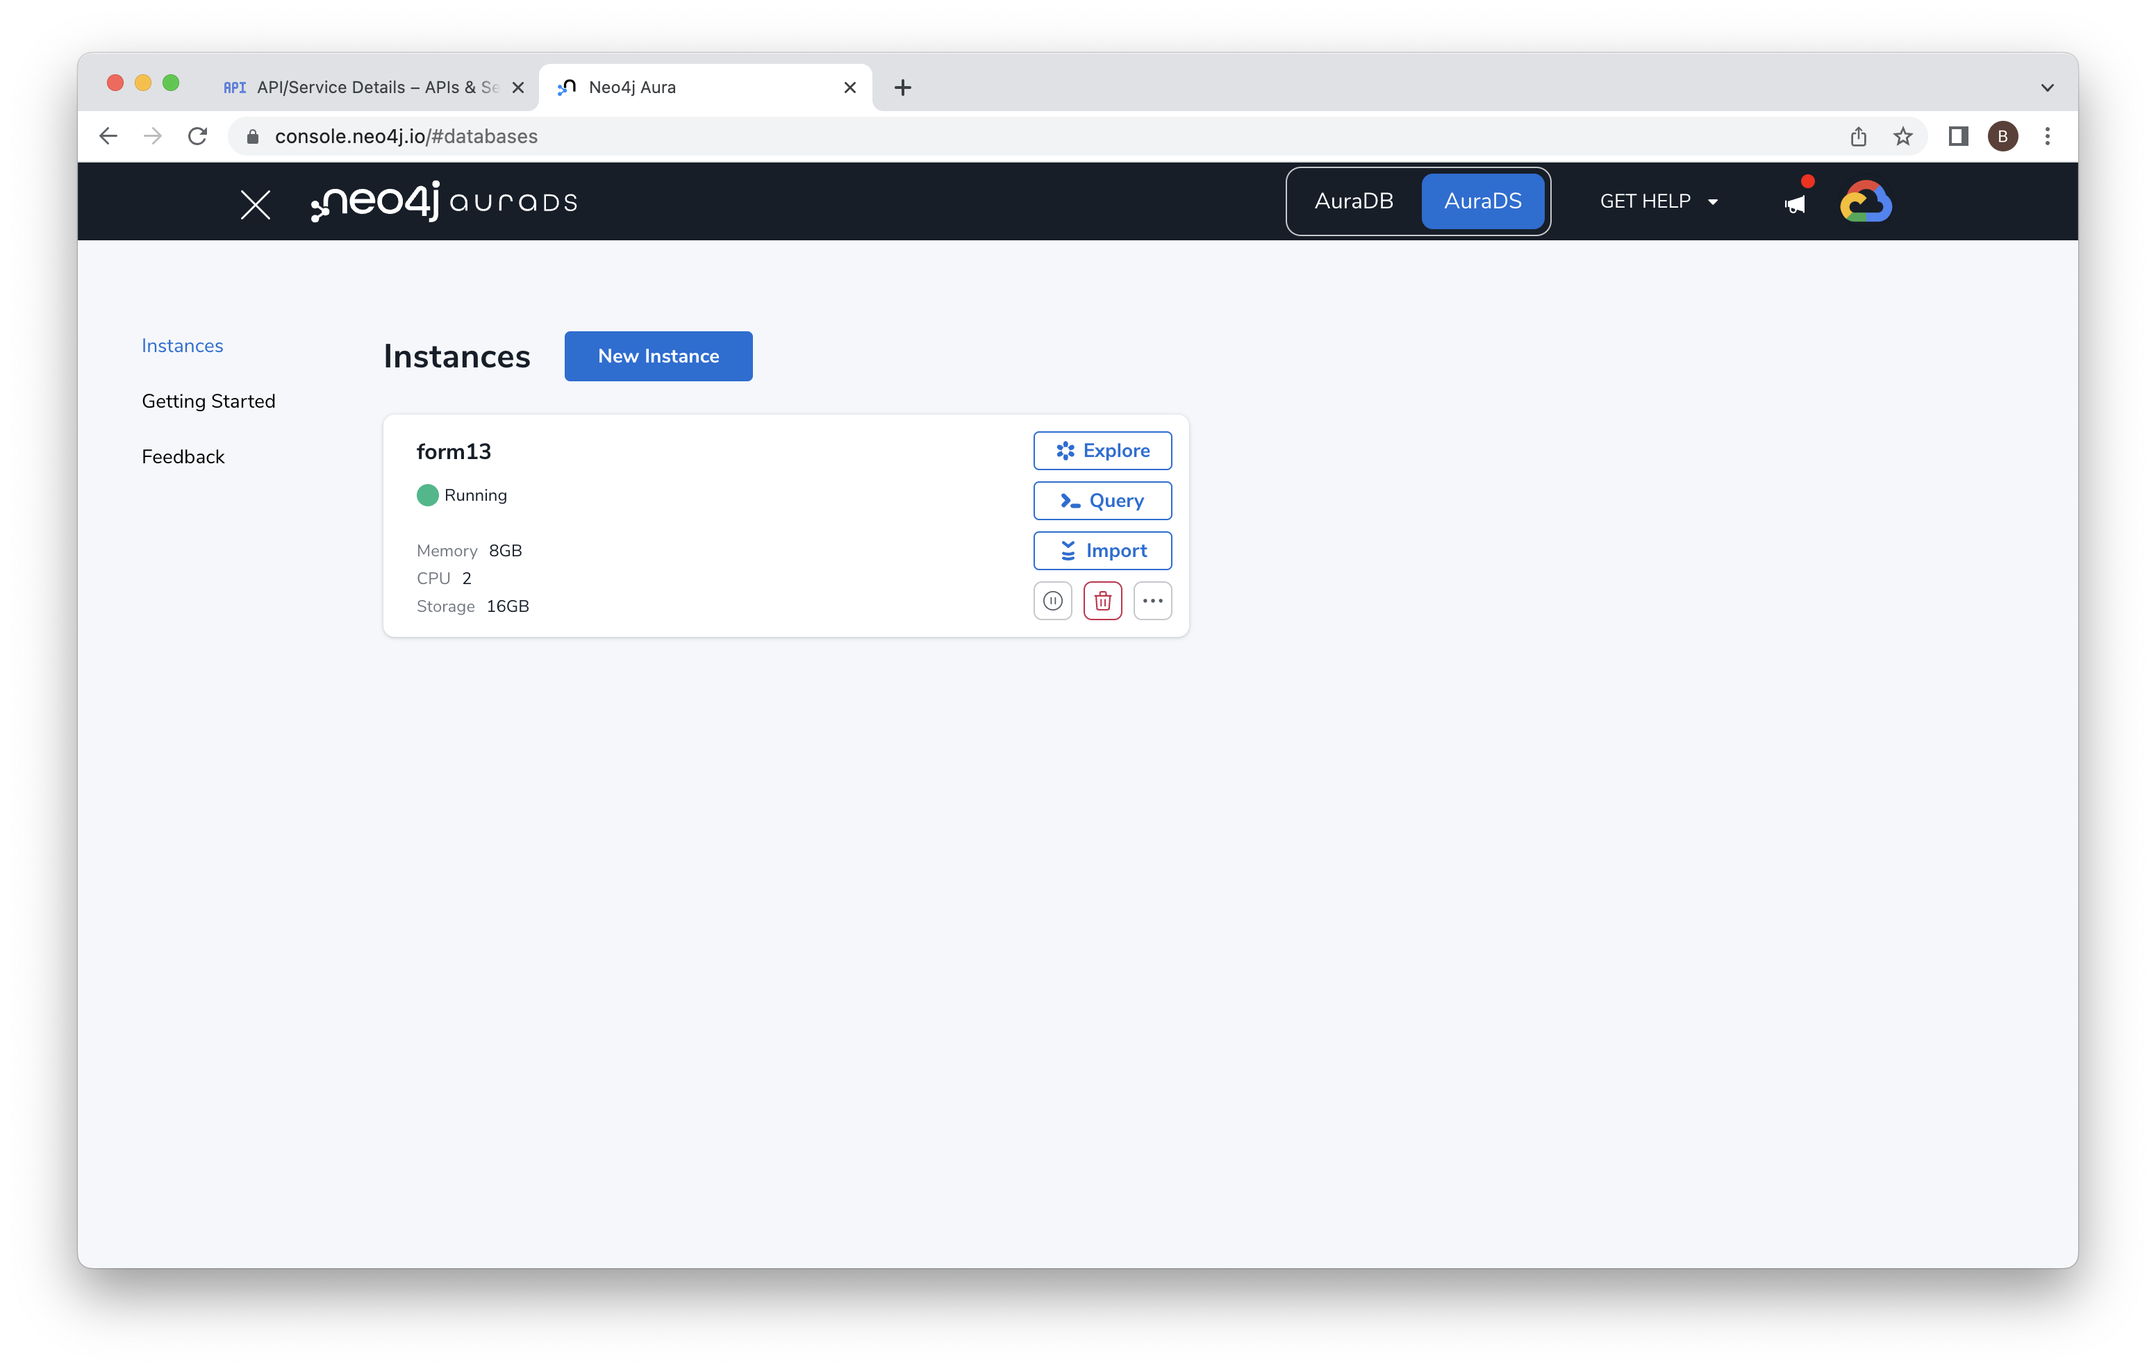
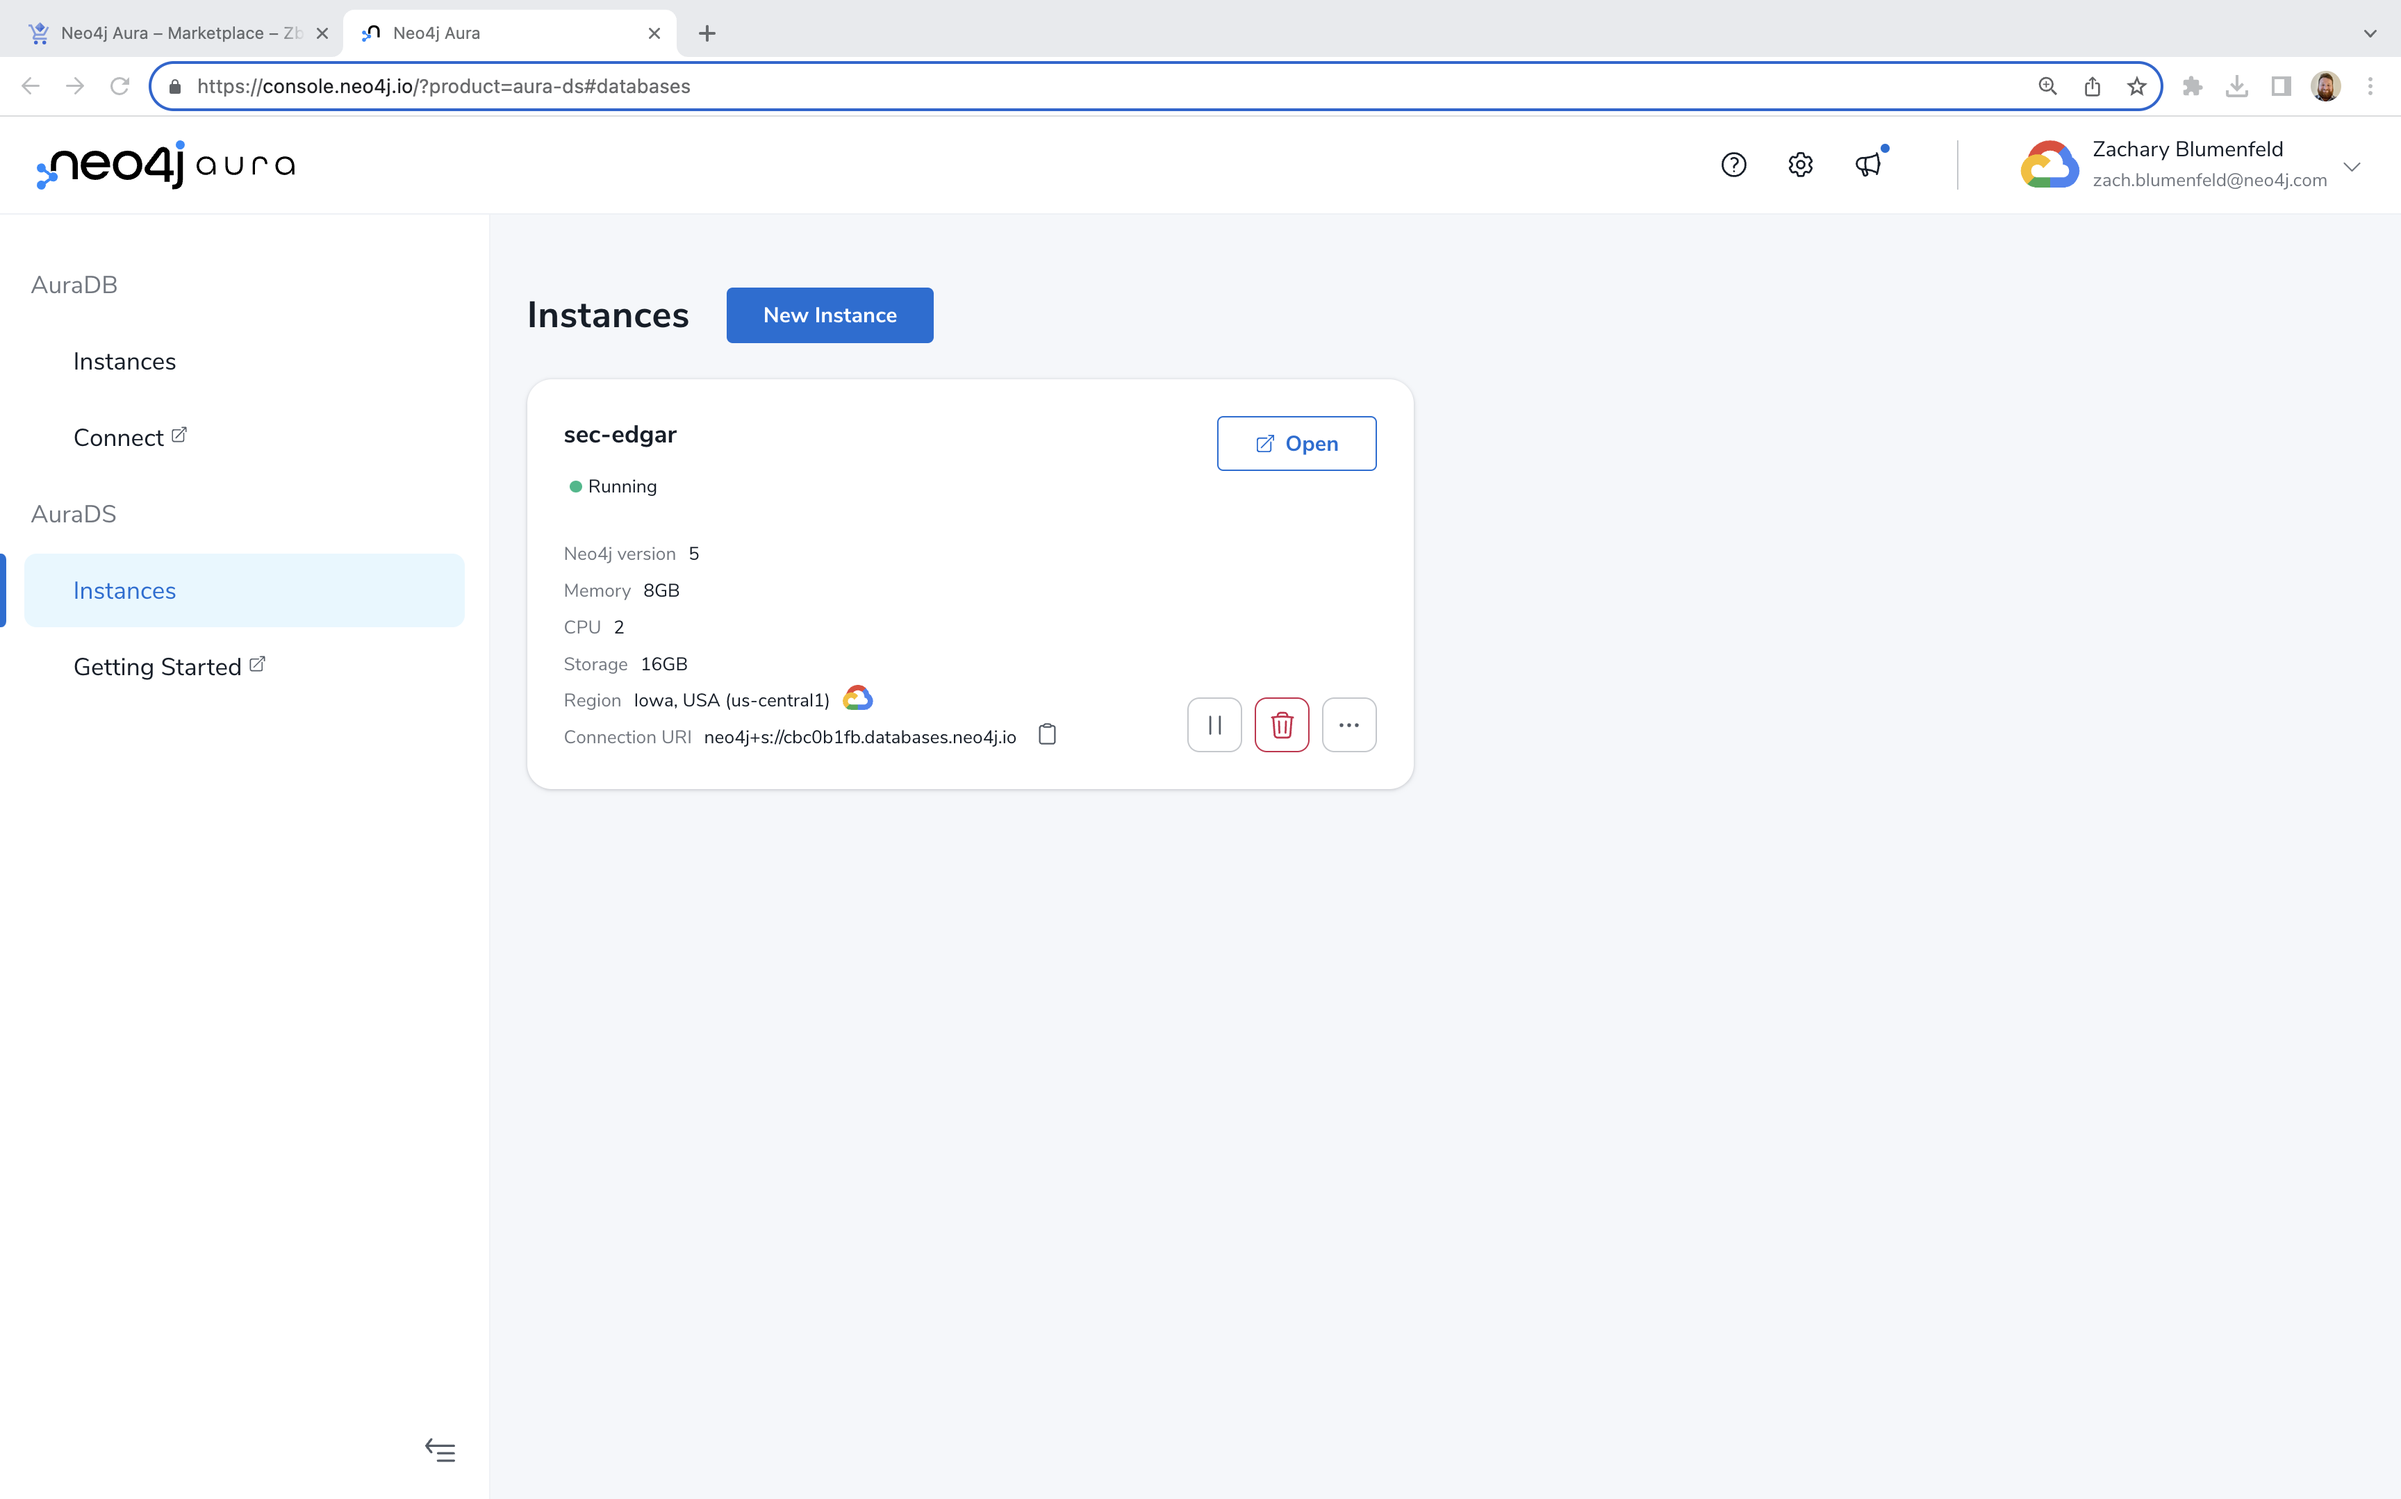
Adding Lab 1 Tweaks for Updated UI

diff --git a/Lab 1 - Deploy Neo4j/README.md b/Lab 1 - Deploy Neo4j/README.md
@@ -1,8 +1,8 @@
 # Lab 1 - Deploy Neo4j
 
 Neo4j has three major products:
-* Graph Database (GDB) - a native graph data store built from the ground up to leverage not only data but also data relationships.
-* Graph Data Science (GDS) - a software platform helping data scientists uncover the connections in big data to answer business critical questions and improve predictions.
+* Graph Database - a native graph data store built from the ground up to leverage not only data but also data relationships.
+* Graph Data Science - a software platform helping data scientists uncover the connections in big data to answer business critical questions and improve predictions.
 * Bloom - a graph exploration application for visually interacting with Neo4j graphs. Bloom gives graph novices and experts alike the ability to visually investigate and explore graph data from different business perspectives.
 
 There are many ways to run these products on Google Cloud.  The Marketplace in particular offers three ways to deploy Neo4j:
@@ -70,7 +70,7 @@ Click "Got it!" to dismiss the cookie dialog.
 
 ![](images/13-aura.png)
 
-We can now create our first database.  We want to create an AuraDS instance.  That way we'll have access to Graph Data Science (GDS) and Bloom, the Neo4j business intelligence tool.
+We can now create our first database.  We want to create an AuraDS instance.  That way we'll have access to Graph Data Science and Bloom, the Neo4j business intelligence tool.
 
 Important -- Be sure to select AuraDS.
 
@@ -80,23 +80,21 @@ Now click on "New Instance" to create a new AuraDS instance.
 
 ![](images/15-aura.png)
 
-We're presented with various options for that database.  For instance name, you enter "form13".  For number of nodes, enter "500,000" and for number of relationships, enter "1,000,000".
+We're presented with various options for that database.  For number of nodes, enter "500,000" and for number of relationships, enter "1,000,000".
 
 ![](images/16-aurads.png)
 
-Then scroll down.  We're going to be making a node embedding, so select that.  The node embedding will allow us to represent our graph as features that Google Vertex AI can consume in a tablular format.
-
-![](images/17-aurads.png)
+Then scroll down.  In later labs, We're going to be making a node embedding, so select that.  The node embedding will allow us to represent our graph as features that Google Vertex AI can consume in a tablular format.
 
 Scroll to the bottom and click "Calculate estimate."
 
 ![](images/18-estimate.png)
 
-Review the estimate and click "Create instance."
+Review the estimate, enter "sec-edgar" for instance name, and click "Create"
 
 ![](images/19-estimate.png)
 
-You'll be presented with the credentials for your database.  Be absolutely certain to copy the password.  We can't get it again later and you'll need it in a later lab.  Once you've done that, click "I have stored these credentials safely to use later." Then click "Continue."
+You'll be presented with the credentials for your database.  Be absolutely certain to download the credentials or copy the password.  We can't get it again later and you'll need it in a later lab.  Once you've done that, click "I have stored these credentials safely to use later." Then click "Continue."
 
 ![](images/20-creds.png)
 
@@ -104,9 +102,18 @@ You'll see a dialog that your database is being created.  This takes less than f
 
 ![](images/21-deploying.png)
 
-When deployment is complete you'll see this menu.
+When deployment is complete you'll see this menu.  
 
 ![](images/22-deployed.png)
+
+
+We recommend enabling the workspace experience. This is the latest UI in Aura. To check that workspace is enabled, click on the gear icon in the upper right. 
+
+![](images/23-settings.png)
+
+Then ensure the "Enable workspace" toggle is switched on. 
+
+![](images/24-workspace.png)
 
 You can poke around the menus here a bit and see more on database status and connection information.
 
